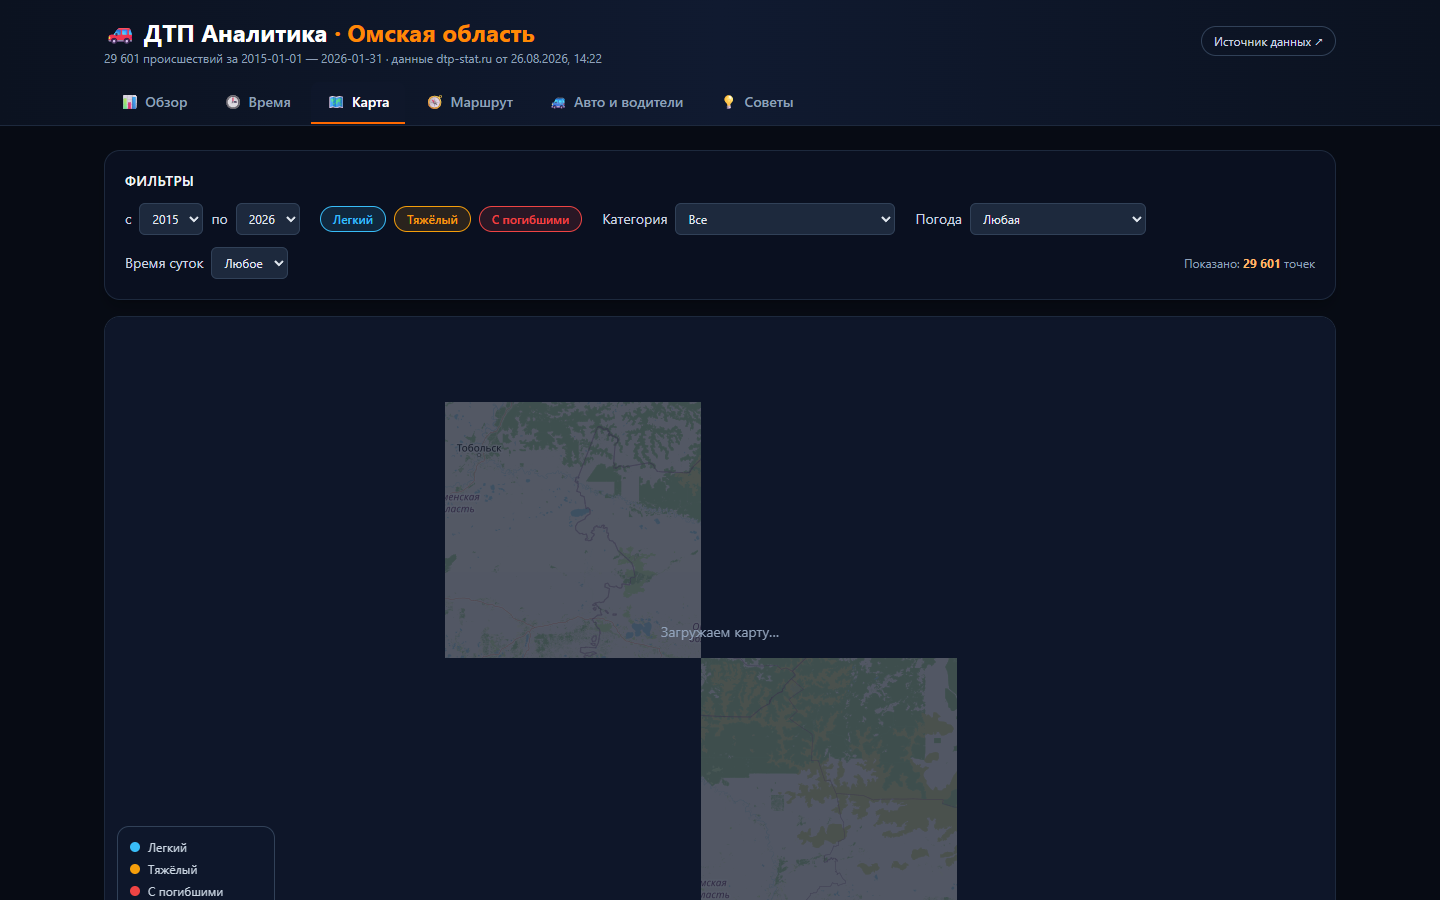
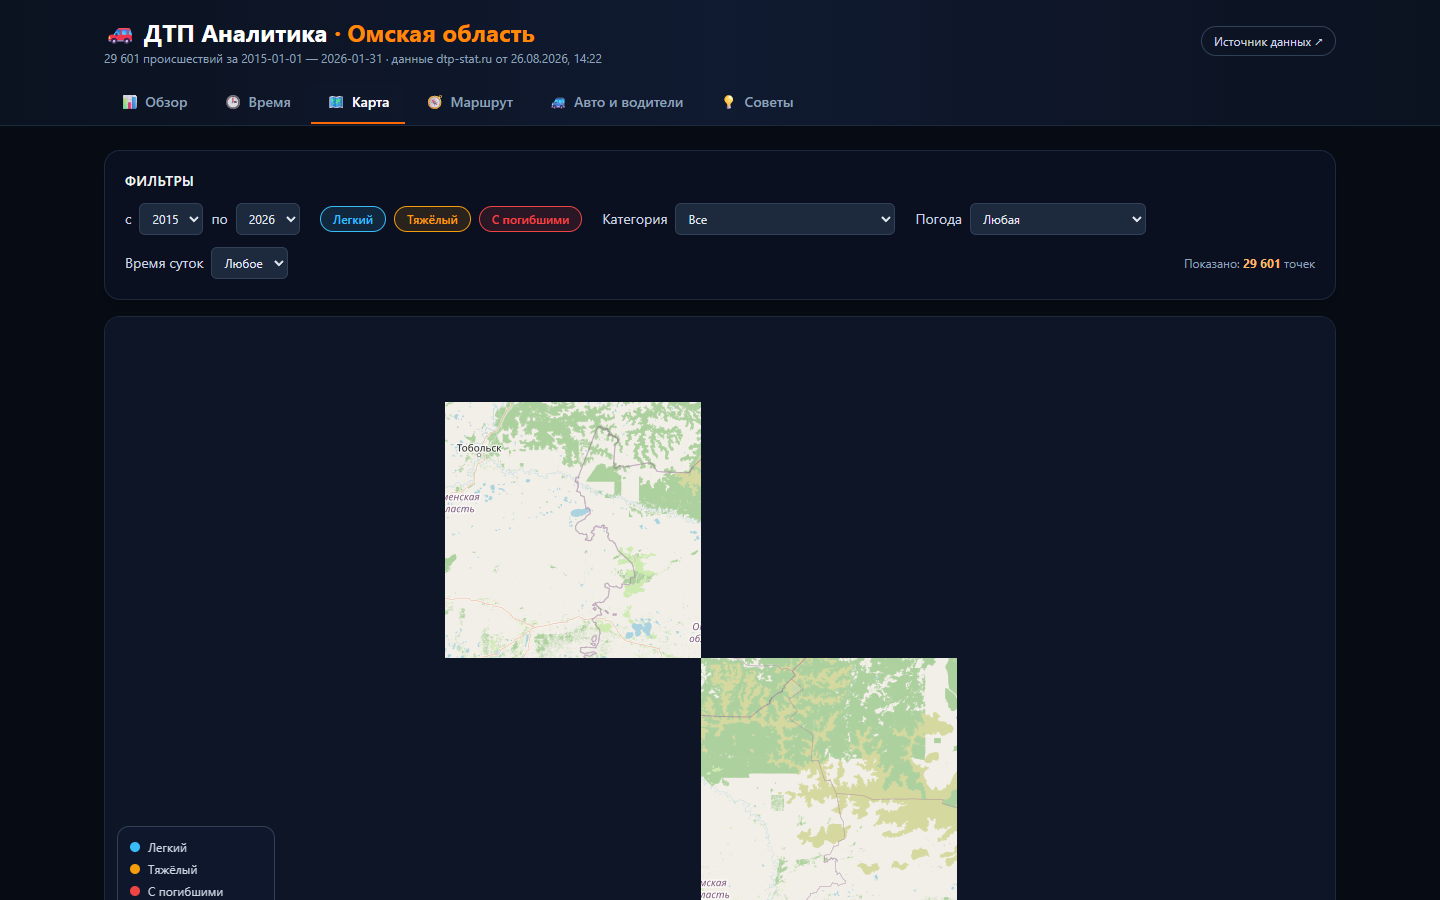
perf(route): коридорный фильтр без тригонометрии во внутреннем цикле (~x20 быстрее)

Changed region(s): [[0.2812, 0.4356, 0.6875, 1.0]]

diff --git a/web/src/lib/corridor.ts b/web/src/lib/corridor.ts
@@ -1,72 +1,66 @@
 import type { PointRow } from "./types";
 
-const R = 6_371_000; // радиус Земли, м
+const KY = 110_540; // метров в градусе широты
 
-export function haversine(lat1: number, lon1: number, lat2: number, lon2: number): number {
-  const toRad = Math.PI / 180;
-  const dLat = (lat2 - lat1) * toRad;
-  const dLon = (lon2 - lon1) * toRad;
-  const a =
-    Math.sin(dLat / 2) ** 2 +
-    Math.cos(lat1 * toRad) * Math.cos(lat2 * toRad) * Math.sin(dLon / 2) ** 2;
-  return 2 * R * Math.asin(Math.sqrt(a));
+interface Segment {
+  ax: number; ay: number; bx: number; by: number;
+  dx: number; dy: number; lenSq: number;
 }
 
-/** Расстояние от точки до отрезка AB в метрах (локальная равнопромежуточная проекция). */
-export function pointToSegmentMeters(
-  plat: number, plon: number,
-  alat: number, alon: number,
-  blat: number, blon: number,
-): number {
-  const x = plon, y = plat;
-  const x1 = alon, y1 = alat, x2 = blon, y2 = blat;
-  // метры по осям в средней широте
-  const latMid = ((y1 + y2 + y) / 3) * (Math.PI / 180);
-  const kx = 111_320 * Math.cos(latMid);
-  const ky = 110_540;
-  const px = x * kx, py = y * ky;
-  const ax = x1 * kx, ay = y1 * ky;
-  const bx = x2 * kx, by = y2 * ky;
-  const dx = bx - ax, dy = by - ay;
-  const lenSq = dx * dx + dy * dy;
-  let t = lenSq === 0 ? 0 : ((px - ax) * dx + (py - ay) * dy) / lenSq;
-  t = Math.max(0, Math.min(1, t));
-  const ex = ax + t * dx, ey = ay + t * dy;
-  const ddx = px - ex, ddy = py - ey;
-  return Math.sqrt(ddx * ddx + ddy * ddy);
-}
-
-/** Отбирает точки ДТП в коридоре bufferM метров вокруг полилинии маршрута. */
+/**
+ * Отбирает точки ДТП в коридоре bufferM метров вокруг полилинии маршрута.
+ * Все сегменты проецируются в метры заранее (одна опорная широта на маршрут,
+ * погрешность проекции на дистанциях до пары сотен км несущественна для
+ * коридора в сотни метров), поэтому во внутреннем цикле нет тригонометрии.
+ */
 export function filterCorridor(
   rows: PointRow[],
   line: [number, number][], // [lat, lon]
-  bufferM = 300,
+  bufferM = 400,
 ): PointRow[] {
   if (line.length < 2) return [];
+
   let minLat = Infinity, maxLat = -Infinity, minLon = Infinity, maxLon = -Infinity;
+  let latSum = 0;
   for (const [la, lo] of line) {
     if (la < minLat) minLat = la;
     if (la > maxLat) maxLat = la;
     if (lo < minLon) minLon = lo;
     if (lo > maxLon) maxLon = lo;
+    latSum += la;
   }
-  const padLat = bufferM / 111_000 + 0.005;
+  const KX = 111_320 * Math.cos((latSum / line.length) * (Math.PI / 180));
+  const padLat = bufferM / KY + 0.005;
   const padLon = padLat / Math.cos((line[0][0] * Math.PI) / 180);
+  const minLatP = minLat - padLat, maxLatP = maxLat + padLat;
+  const minLonP = minLon - padLon, maxLonP = maxLon + padLon;
+
+  const segs: Segment[] = [];
+  for (let i = 1; i < line.length; i++) {
+    const alat = line[i - 1][0], alon = line[i - 1][1];
+    const blat = line[i][0], blon = line[i][1];
+    const ax = alon * KX, ay = alat * KY;
+    const bx = blon * KX, by = blat * KY;
+    const dx = bx - ax, dy = by - ay;
+    segs.push({ ax, ay, dx, dy, bx, by, lenSq: dx * dx + dy * dy });
+  }
 
   const out: PointRow[] = [];
   for (let i = 0; i < rows.length; i++) {
     const r = rows[i];
     const la = r[0], lo = r[1];
-    if (la < minLat - padLat || la > maxLat + padLat || lo < minLon - padLon || lo > maxLon + padLon)
-      continue;
-    for (let s = 1; s < line.length; s++) {
-      const [ala, alo] = line[s - 1];
-      const [bla, blo] = line[s];
-      if (
-        pointToSegmentMeters(la, lo, ala, alo, bla, blo) <= bufferM
-      ) {
-        out.push(r);
-        break;
+    if (la < minLatP || la > maxLatP || lo < minLonP || lo > maxLonP) continue;
+    const px = lo * KX, py = la * KY;
+    for (let s = 0; s < segs.length; s++) {
+      const sg = segs[s];
+      let t = sg.lenSq === 0 ? 0 : ((px - sg.ax) * sg.dx + (py - sg.ay) * sg.dy) / sg.lenSq;
+      if (t <= 0) {
+        if ((px - sg.ax) ** 2 + (py - sg.ay) ** 2 <= bufferM * bufferM) { out.push(r); break; }
+      } else if (t >= 1) {
+        if ((px - sg.bx) ** 2 + (py - sg.by) ** 2 <= bufferM * bufferM) { out.push(r); break; }
+      } else {
+        const ex = sg.ax + t * sg.dx - px, ey = sg.ay + t * sg.dy - py;
+        if (ex * ex + ey * ey <= bufferM * bufferM) { out.push(r); break; }
       }
     }
   }
